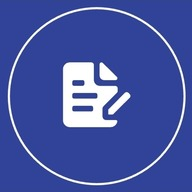
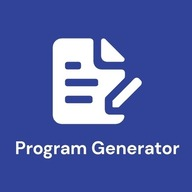
Add files via upload

Changed region(s): [[0.25, 0.1875, 0.75, 0.6875], [0.0312, 0.0312, 1.0, 0.9688]]

diff --git a/index.html b/index.html
@@ -4,6 +4,16 @@
     <meta charset="UTF-8">
     <meta name="viewport" content="width=device-width">
     <title>Generate Program</title>
+
+    <link rel="apple-touch-icon" sizes="180x180" href="./assets/img/apple-touch-icon.png">
+    <link rel="icon" type="image/png" sizes="32x32" href="./assets/img/favicon-32x32.png">
+    <link rel="icon" type="image/png" sizes="16x16" href="./assets/img/favicon-16x16.png">
+    <link rel="mask-icon" href="./assets/img/safari-pinned-tab.svg" color="#314399">
+    <link rel="shortcut icon" href="./assets/img/favicon.ico">
+    <meta name="msapplication-TileColor" content="#314399">
+    <meta name="msapplication-config" content="./assets/img/browserconfig.xml">
+    <meta name="theme-color" content="#314399">
+
     <link rel="manifest" href="./manifest.json">
     <link rel="stylesheet" href="./assets/css/jsuites.css" type="text/css" />
     <script src="./assets/js/jsuites.js"></script>
